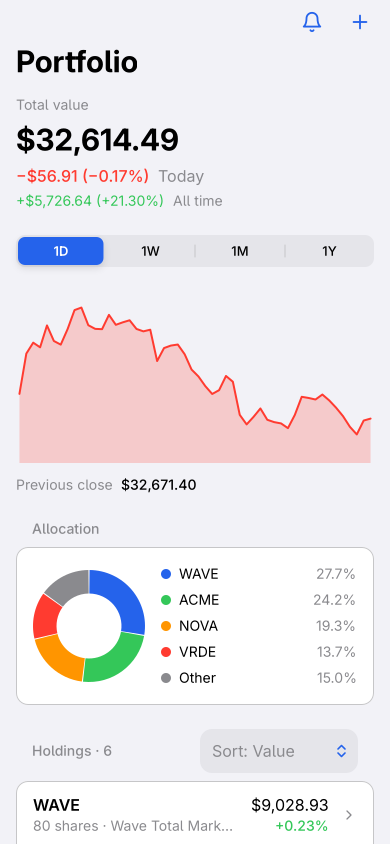
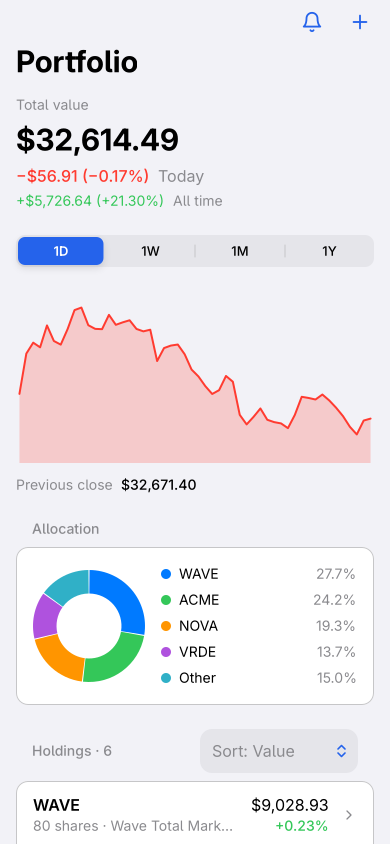
Examples (portfolio): allocation colors from the chart_1..chart_5 tokens

Changed region(s): [[0.0615, 0.6777, 0.3692, 0.7701], [0.4, 0.7701, 0.4308, 0.8318], [0.4, 0.6777, 0.4308, 0.7085]]

diff --git a/examples/portfolio/main.js b/examples/portfolio/main.js
@@ -558,6 +558,6 @@ export default class Portfolio extends View {
 }
 
 /** The allocation's colors, in slice order; the legend uses the same list. */
-export function sliceColors(t) {
-  return [t.primary, t.success, t.warning, t.destructive, t.muted_foreground];
+function sliceColors(t) {
+  return [t.chart_1, t.chart_2, t.chart_3, t.chart_4, t.chart_5];
 }
